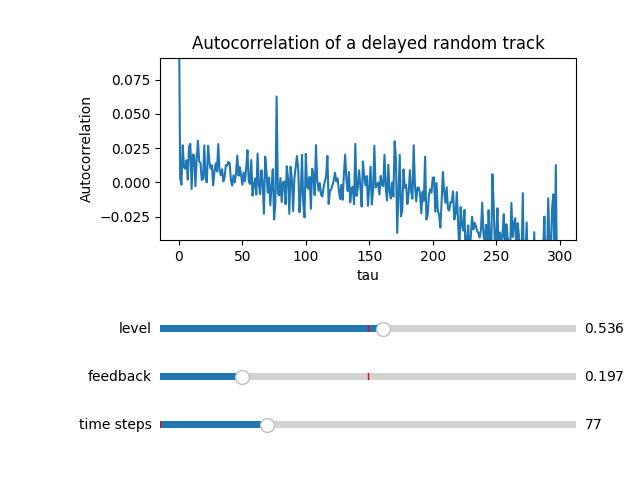
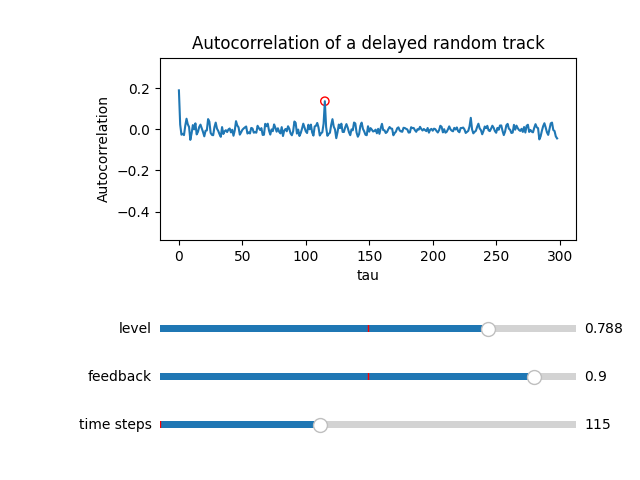
Update correlogram with expected delay result

diff --git a/demo_random.py b/demo_random.py
@@ -9,17 +9,18 @@ NSAMPLES = 300
 
 
 if __name__ == '__main__':
-    original = 2 * np.random.rand(NSAMPLES) - 1
-    solve = lambda track: correlation.invert_delay_serial(track, track.size - 1)
-
+    track = np.random.uniform(low=-1.0, high=1.0, size=NSAMPLES)
+    correlogram = lambda track: correlation.correlogram(track, NSAMPLES-1, method='fft')
 
     # Create the figure and the line that we will manipulate
     fig, ax = plt.subplots()
     ax.set_title('Autocorrelation of a delayed random track')
-    line, = ax.plot(solve(original))
     ax.set_xlabel('tau')
     ax.set_ylabel('Autocorrelation')
 
+    corr = correlogram(track)
+    line, = ax.plot(corr)
+    point = ax.scatter(0, corr[0], color='red', facecolors='none', marker='o')
 
     # adjust the main plot to make room for the sliders
     fig.subplots_adjust(left=0.25, bottom=0.5)
@@ -28,7 +29,7 @@ if __name__ == '__main__':
         fig.add_axes([0.25, 0.1, 0.65, 0.03]),
         label='time steps',
         valmin=0,
-        valmax=original.size-1,
+        valmax=track.size-1,
         valinit=0,
         valstep=1
     )
@@ -51,12 +52,17 @@ if __name__ == '__main__':
 
     # The function to be called anytime a slider's value changes
     def update(val):
-        line.set_ydata(solve(delay.apply(
-            original, 
-            time    = int(delay_slider.val),
+        shift = int(delay_slider.val)
+
+        corr = correlogram(delay.apply(
+            track, 
+            time    = shift,
             level   = level_slider.val,
             feedback= feedback_slider.val
-        )))
+        ))
+
+        line.set_ydata(corr)
+        point.set_offsets([shift, corr[shift]])
 
         fig.canvas.draw_idle()
 

diff --git a/correlation.py b/correlation.py
@@ -4,31 +4,36 @@ import pyopencl as cl
 import matplotlib.pyplot as plt
 
 
-def cross_correlation(x, shift):
-    # only overlapping part is computed
-    # normalize with the number of samples under the window
+def xcorr(x, shift):
+    # only overlapping part is computed and result is normalized with the number of samples under the window
     return np.dot(x[shift:], x[:(x.size-shift)]) / (x.size - shift)
 
 
-def invert_delay_serial(x, max_shift):
-    result = np.zeros(max_shift)
-    x  = np.asarray(x, np.float32)
-    x -= np.mean(x)
+def correlogram(x: np.array, maxshift, method='fft'):
+    assert(0 < maxshift < len(x))
 
-    for i in range(max_shift):
-        result[i] = cross_correlation(x, i)
+    if method == 'fft':
+        X = fft(x)
+        P = np.abs(X) ** 2
 
-    return result
+        corr = ifft(P).real
+        corr = corr / corr[0]
 
+        return corr[0:maxshift]
 
-def invert_delay_fft(x, samplerate):
-    X = fft(x)
-    P = np.abs(X) ** 2
+    elif method == 'serial':
+        corr = np.zeros(maxshift)
 
-    R_x = ifft(P).real
-    R_x = R_x / R_x[0]
+        x = np.asarray(x, np.float32)
+        x = x - np.mean(x)
 
-    return R_x[0:samplerate]
+        for i in range(maxshift):
+            corr[i] = xcorr(x, i)
+
+        return corr
+
+    else:
+        ValueError("Supported methods are {'fft, 'serial'}")
 
 
 def setup_opencl_runtime():
